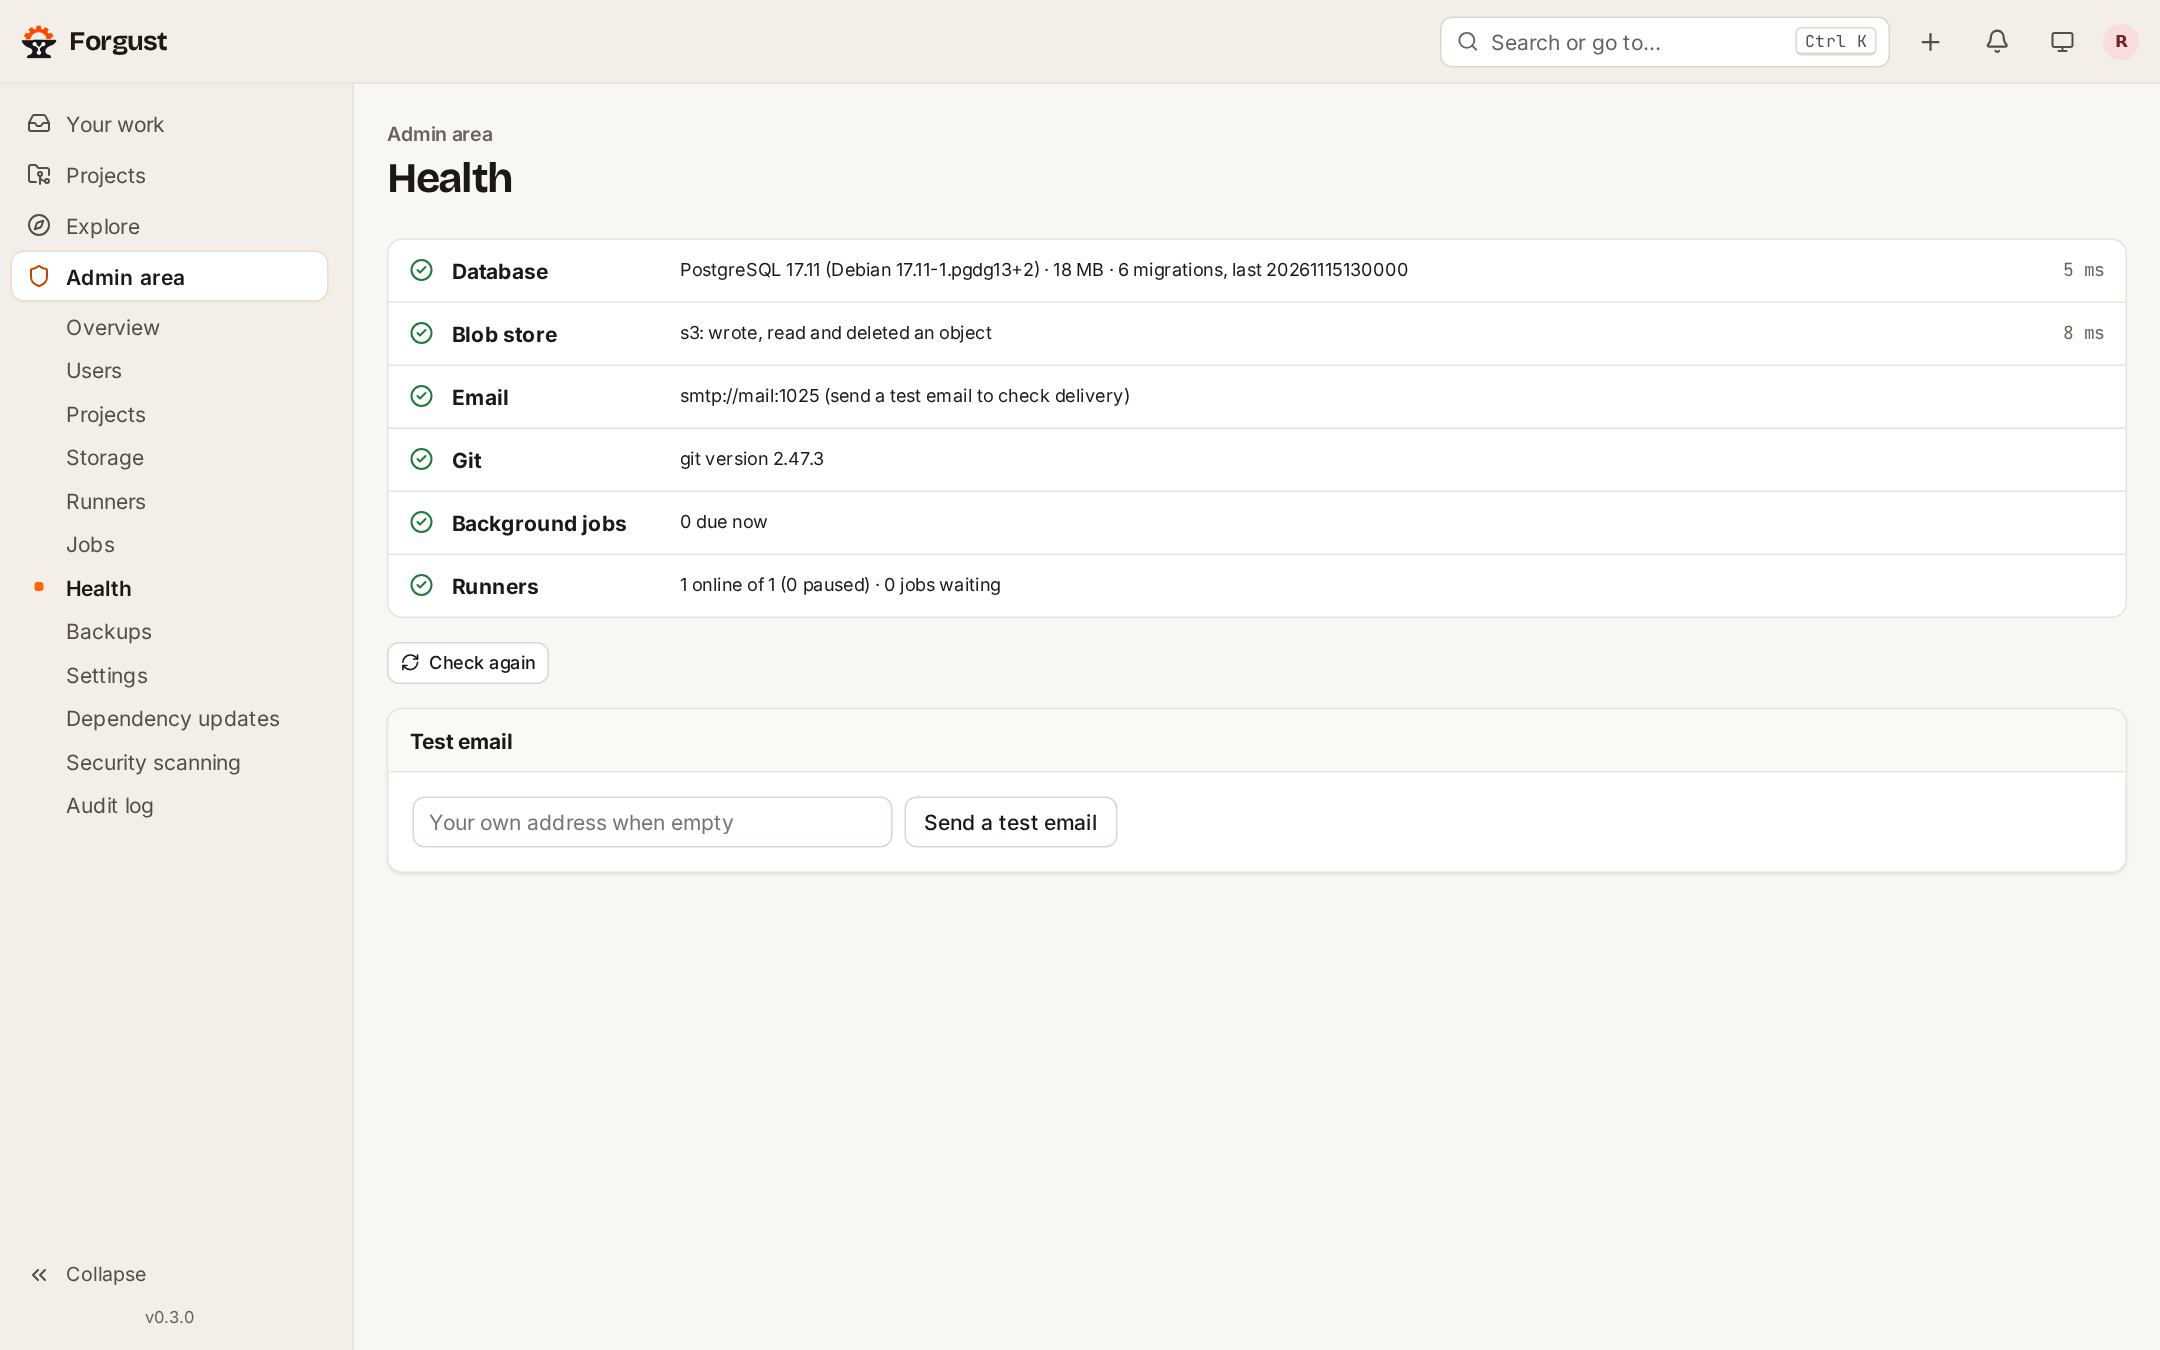
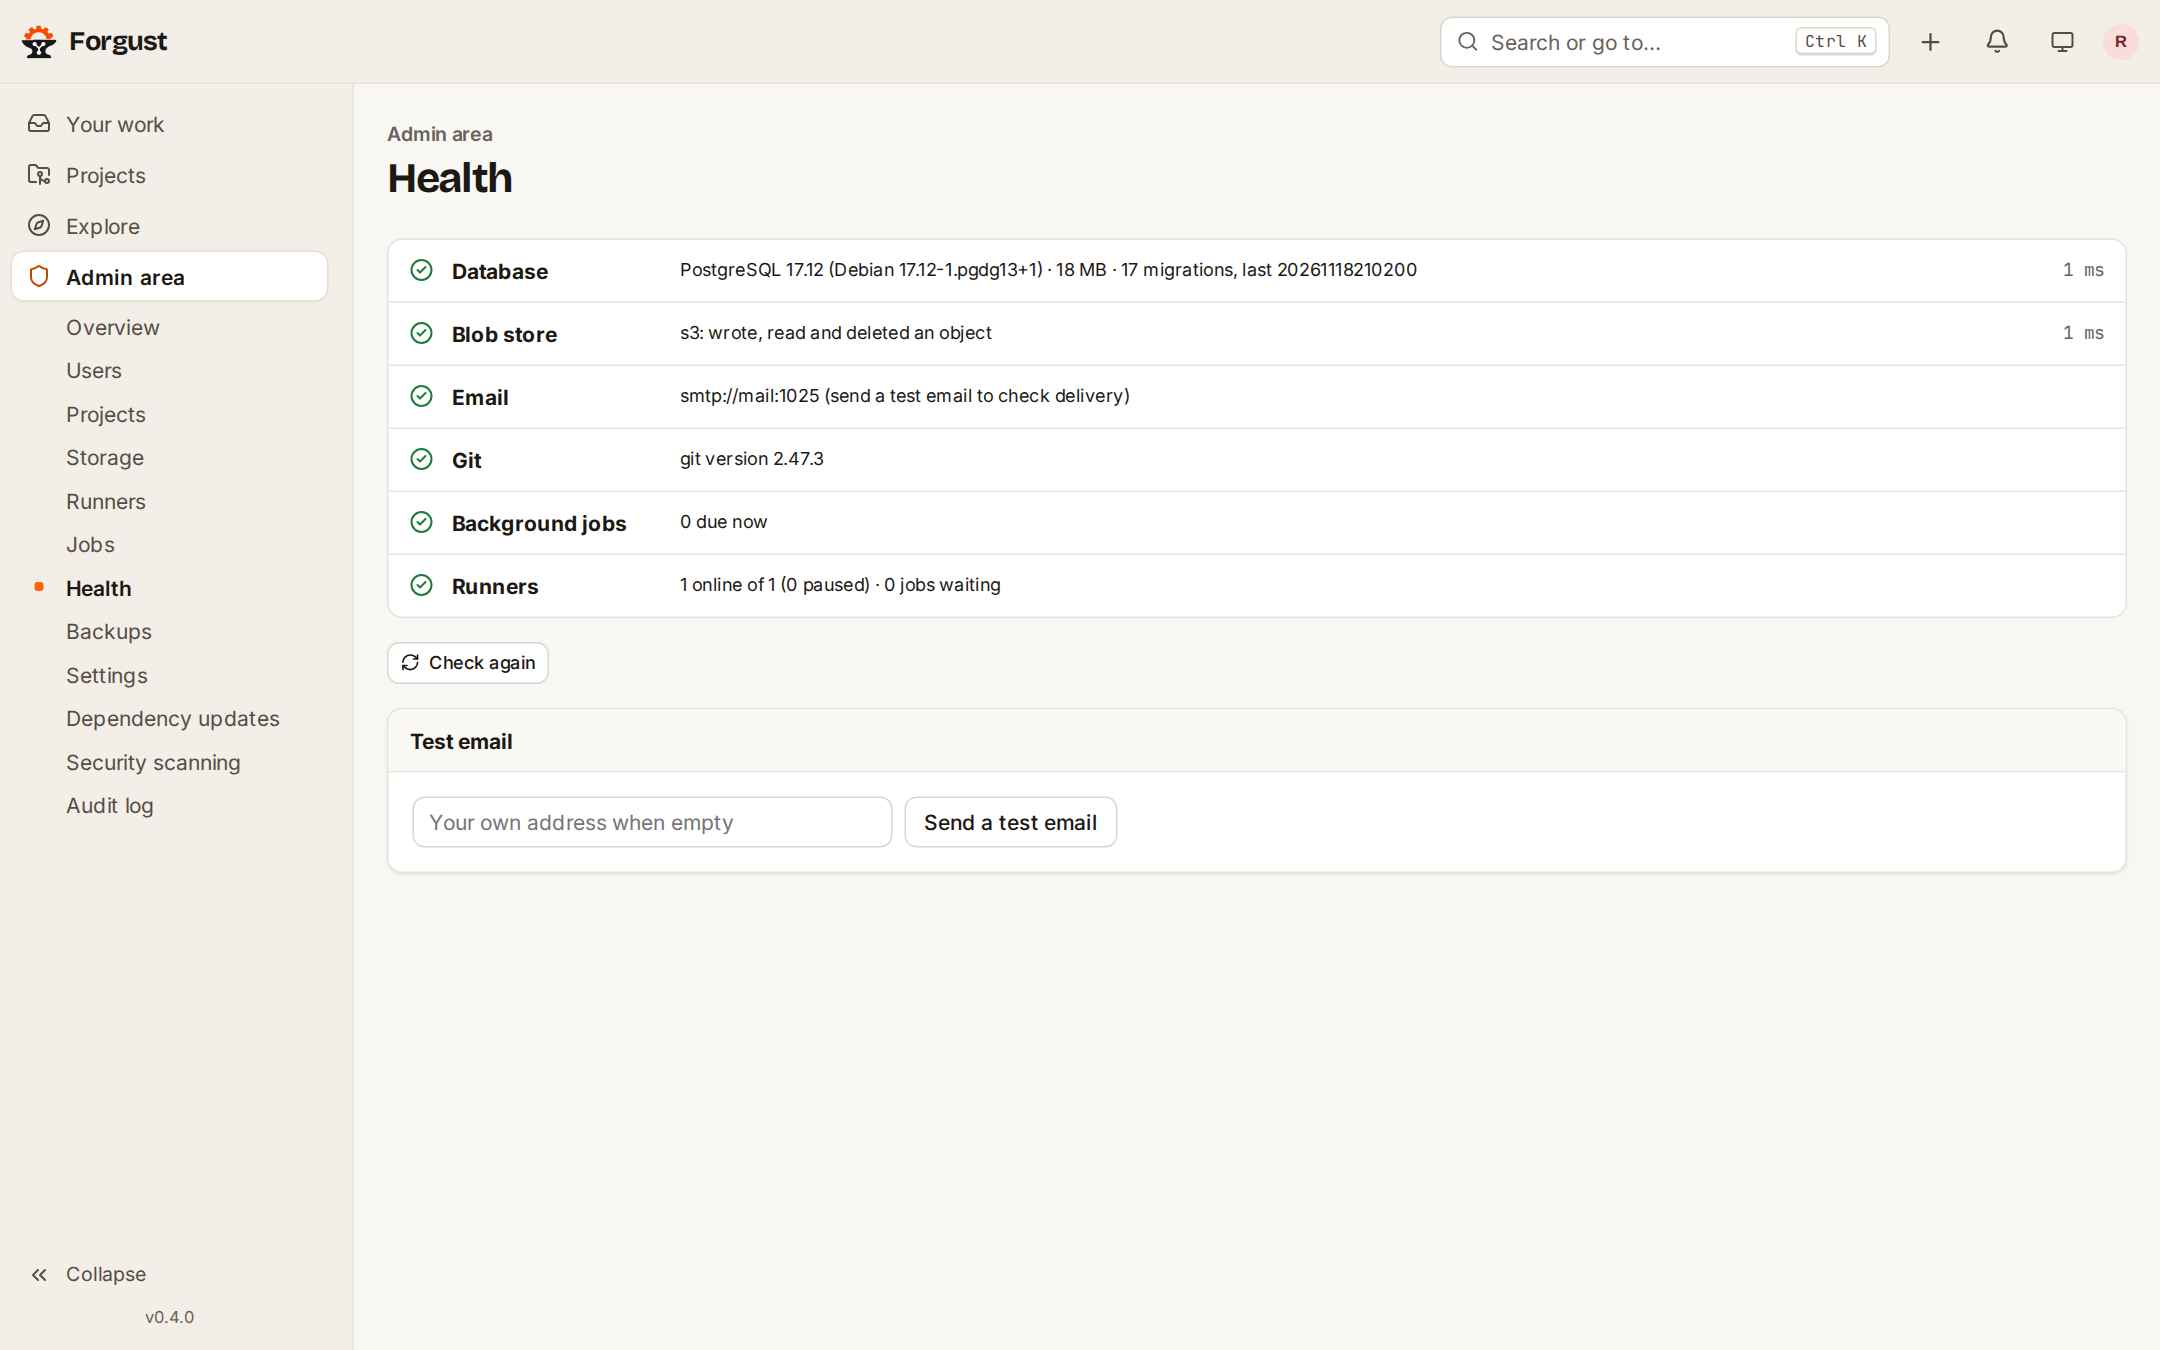
docs: refresh the readme, its screenshots and the social preview

diff --git a/README.md b/README.md
@@ -18,31 +18,55 @@ workflow on your own servers.
 ## Screenshots
 <table>
   <tr>
-    <td align="center"><picture><source media="(prefers-color-scheme: dark)" srcset=".github/images/code-dark.png"/><img src=".github/images/code-light.png" alt="Repository"/></picture><br/><sub>Repository</sub></td>
-    <td align="center"><picture><source media="(prefers-color-scheme: dark)" srcset=".github/images/file-dark.png"/><img src=".github/images/file-light.png" alt="Source file"/></picture><br/><sub>Source file</sub></td>
-    <td align="center"><picture><source media="(prefers-color-scheme: dark)" srcset=".github/images/merge-request-dark.png"/><img src=".github/images/merge-request-light.png" alt="Merge request"/></picture><br/><sub>Merge request</sub></td>
+    <td align="center"><a href=".github/images/code-dark.png"><picture><source media="(prefers-color-scheme: dark)" srcset=".github/images/code-dark.png"/><img src=".github/images/code-light.png" alt="Repository"/></picture></a><br/><sub>Repository</sub></td>
+    <td align="center"><a href=".github/images/merge-request-dark.png"><picture><source media="(prefers-color-scheme: dark)" srcset=".github/images/merge-request-dark.png"/><img src=".github/images/merge-request-light.png" alt="Merge request"/></picture></a><br/><sub>Merge request</sub></td>
+    <td align="center"><a href=".github/images/diff-dark.png"><picture><source media="(prefers-color-scheme: dark)" srcset=".github/images/diff-dark.png"/><img src=".github/images/diff-light.png" alt="Code review"/></picture></a><br/><sub>Code review</sub></td>
   </tr>
   <tr>
-    <td align="center"><picture><source media="(prefers-color-scheme: dark)" srcset=".github/images/diff-dark.png"/><img src=".github/images/diff-light.png" alt="Code review"/></picture><br/><sub>Code review</sub></td>
-    <td align="center"><picture><source media="(prefers-color-scheme: dark)" srcset=".github/images/pipeline-dark.png"/><img src=".github/images/pipeline-light.png" alt="Pipeline"/></picture><br/><sub>Pipeline</sub></td>
-    <td align="center"><picture><source media="(prefers-color-scheme: dark)" srcset=".github/images/job-dark.png"/><img src=".github/images/job-light.png" alt="Job log"/></picture><br/><sub>Job log</sub></td>
-  </tr>
-  <tr>
-    <td align="center"><picture><source media="(prefers-color-scheme: dark)" srcset=".github/images/issues-dark.png"/><img src=".github/images/issues-light.png" alt="Issues"/></picture><br/><sub>Issues</sub></td>
-    <td align="center"><picture><source media="(prefers-color-scheme: dark)" srcset=".github/images/security-dark.png"/><img src=".github/images/security-light.png" alt="Security findings"/></picture><br/><sub>Security findings</sub></td>
+    <td align="center"><a href=".github/images/pipeline-dark.png"><picture><source media="(prefers-color-scheme: dark)" srcset=".github/images/pipeline-dark.png"/><img src=".github/images/pipeline-light.png" alt="Pipeline"/></picture></a><br/><sub>Pipeline</sub></td>
+    <td align="center"><a href=".github/images/login-dark.png"><picture><source media="(prefers-color-scheme: dark)" srcset=".github/images/login-dark.png"/><img src=".github/images/login-light.png" alt="Sign in"/></picture></a><br/><sub>Sign in</sub></td>
+    <td align="center"><a href=".github/images/security-dark.png"><picture><source media="(prefers-color-scheme: dark)" srcset=".github/images/security-dark.png"/><img src=".github/images/security-light.png" alt="Security findings"/></picture></a><br/><sub>Security findings</sub></td>
   </tr>
 </table>
 
-### Admin
+<details>
+<summary>More screenshots</summary>
+
 <table>
   <tr>
-    <td align="center"><picture><source media="(prefers-color-scheme: dark)" srcset=".github/images/admin-dark.png"/><img src=".github/images/admin-light.png" alt="Overview"/></picture><br/><sub>Overview</sub></td>
-    <td align="center"><picture><source media="(prefers-color-scheme: dark)" srcset=".github/images/admin-storage-dark.png"/><img src=".github/images/admin-storage-light.png" alt="Storage"/></picture><br/><sub>Storage</sub></td>
-    <td align="center"><picture><source media="(prefers-color-scheme: dark)" srcset=".github/images/admin-health-dark.png"/><img src=".github/images/admin-health-light.png" alt="Health"/></picture><br/><sub>Health</sub></td>
+    <td align="center"><a href=".github/images/job-dark.png"><picture><source media="(prefers-color-scheme: dark)" srcset=".github/images/job-dark.png"/><img src=".github/images/job-light.png" alt="Job log"/></picture></a><br/><sub>Job log</sub></td>
+    <td align="center"><a href=".github/images/dashboard-dark.png"><picture><source media="(prefers-color-scheme: dark)" srcset=".github/images/dashboard-dark.png"/><img src=".github/images/dashboard-light.png" alt="Your work"/></picture></a><br/><sub>Your work</sub></td>
+    <td align="center"><a href=".github/images/file-dark.png"><picture><source media="(prefers-color-scheme: dark)" srcset=".github/images/file-dark.png"/><img src=".github/images/file-light.png" alt="Source file"/></picture></a><br/><sub>Source file</sub></td>
+  </tr>
+  <tr>
+    <td align="center"><a href=".github/images/commits-dark.png"><picture><source media="(prefers-color-scheme: dark)" srcset=".github/images/commits-dark.png"/><img src=".github/images/commits-light.png" alt="Commits"/></picture></a><br/><sub>Commits</sub></td>
+    <td align="center"><a href=".github/images/merge-requests-dark.png"><picture><source media="(prefers-color-scheme: dark)" srcset=".github/images/merge-requests-dark.png"/><img src=".github/images/merge-requests-light.png" alt="Merge requests"/></picture></a><br/><sub>Merge requests</sub></td>
+    <td align="center"><a href=".github/images/issues-dark.png"><picture><source media="(prefers-color-scheme: dark)" srcset=".github/images/issues-dark.png"/><img src=".github/images/issues-light.png" alt="Issues"/></picture></a><br/><sub>Issues</sub></td>
+  </tr>
+  <tr>
+    <td align="center"><a href=".github/images/environments-dark.png"><picture><source media="(prefers-color-scheme: dark)" srcset=".github/images/environments-dark.png"/><img src=".github/images/environments-light.png" alt="Environments"/></picture></a><br/><sub>Environments</sub></td>
+    <td align="center"><a href=".github/images/releases-dark.png"><picture><source media="(prefers-color-scheme: dark)" srcset=".github/images/releases-dark.png"/><img src=".github/images/releases-light.png" alt="Releases"/></picture></a><br/><sub>Releases</sub></td>
+    <td align="center"><a href=".github/images/registry-dark.png"><picture><source media="(prefers-color-scheme: dark)" srcset=".github/images/registry-dark.png"/><img src=".github/images/registry-light.png" alt="Container registry"/></picture></a><br/><sub>Container registry</sub></td>
+  </tr>
+  <tr>
+    <td align="center"><a href=".github/images/group-dark.png"><picture><source media="(prefers-color-scheme: dark)" srcset=".github/images/group-dark.png"/><img src=".github/images/group-light.png" alt="Group"/></picture></a><br/><sub>Group</sub></td>
+    <td align="center"><a href=".github/images/user-dark.png"><picture><source media="(prefers-color-scheme: dark)" srcset=".github/images/user-dark.png"/><img src=".github/images/user-light.png" alt="User profile"/></picture></a><br/><sub>User profile</sub></td>
+    <td align="center"><a href=".github/images/settings-dark.png"><picture><source media="(prefers-color-scheme: dark)" srcset=".github/images/settings-dark.png"/><img src=".github/images/settings-light.png" alt="Project settings"/></picture></a><br/><sub>Project settings</sub></td>
+  </tr>
+  <tr>
+    <td align="center"><a href=".github/images/profile-security-dark.png"><picture><source media="(prefers-color-scheme: dark)" srcset=".github/images/profile-security-dark.png"/><img src=".github/images/profile-security-light.png" alt="Password, 2FA and passkeys"/></picture></a><br/><sub>Password, 2FA and passkeys</sub></td>
+    <td align="center"><a href=".github/images/admin-dark.png"><picture><source media="(prefers-color-scheme: dark)" srcset=".github/images/admin-dark.png"/><img src=".github/images/admin-light.png" alt="Admin overview"/></picture></a><br/><sub>Admin overview</sub></td>
+    <td align="center"><a href=".github/images/admin-users-dark.png"><picture><source media="(prefers-color-scheme: dark)" srcset=".github/images/admin-users-dark.png"/><img src=".github/images/admin-users-light.png" alt="Admin users"/></picture></a><br/><sub>Admin users</sub></td>
+  </tr>
+  <tr>
+    <td align="center"><a href=".github/images/admin-runners-dark.png"><picture><source media="(prefers-color-scheme: dark)" srcset=".github/images/admin-runners-dark.png"/><img src=".github/images/admin-runners-light.png" alt="Admin runners"/></picture></a><br/><sub>Admin runners</sub></td>
+    <td align="center"><a href=".github/images/admin-storage-dark.png"><picture><source media="(prefers-color-scheme: dark)" srcset=".github/images/admin-storage-dark.png"/><img src=".github/images/admin-storage-light.png" alt="Admin storage"/></picture></a><br/><sub>Admin storage</sub></td>
+    <td align="center"><a href=".github/images/admin-health-dark.png"><picture><source media="(prefers-color-scheme: dark)" srcset=".github/images/admin-health-dark.png"/><img src=".github/images/admin-health-light.png" alt="Admin health"/></picture></a><br/><sub>Admin health</sub></td>
   </tr>
 </table>
+</details>
 
-## Quick Start
+## Quick start
 
 ```bash
 git clone https://github.com/forgust-dev/forgust && cd forgust
@@ -68,7 +92,7 @@ Run the published image (amd64 and arm64) next to Postgres, or build your own wi
 ```yaml
 services:
   forgust:
-    image: ghcr.io/forgust-dev/forgust:0.1
+    image: ghcr.io/forgust-dev/forgust:0.4
     restart: unless-stopped
     read_only: true
     tmpfs: [/tmp]
@@ -112,7 +136,7 @@ volumes: { forgust-data: {}, db-data: {} }
 - Fast code browsing: tree, blame, history, compare, syntax highlighting
 - Code search across projects: exact text or regular expressions, filters by path,
   file name and language, only in code you can read
-- Markdown with diagrams (Mermaid), math and alerts
+- Markdown with diagrams (Mermaid), math, alerts and emoji shortcodes
 - Edit files, create branches and tags from the browser
 - Protected branches and tags, push rules, signed-commit verification (GPG and SSH)
 - Releases with notes and attached files
@@ -134,7 +158,9 @@ volumes: { forgust-data: {}, db-data: {} }
 - Confidential issues (only Reporters and up, the author and the assignees see them)
   and internal comments on issues and merge requests (only Reporters and up)
 - Mentions, `#12` and `!45` references, to-dos and a "Your work" inbox
-- Emoji reactions, watching projects, per-project notification levels, an inbox in the app (live), and a switch per kind of notification for the app and for email
+- Emoji reactions, watching projects, per-project notification levels
+- A live notification inbox in the app, with a switch per kind of notification for
+  the app and for email
 
 ### ⚙ CI/CD
 - Pipelines with stages and `needs` graphs, live logs, artifacts, JUnit test reports
@@ -156,7 +182,9 @@ volumes: { forgust-data: {}, db-data: {} }
 - Overview with activity and CI statistics
 - Users: block, reset two-factor, impersonate (audited)
 - Storage by kind and by project, quotas per group and project
-- Background jobs, health checks, backups from the UI, an instance banner, a notice to administrators when a new release is out (can be turned off)
+- Runners, background jobs, health checks and backups from the UI
+- An instance banner, and a notice to administrators when a new release is out (can
+  be turned off)
 
 ### 🔌 Integrations
 - Import from GitLab and GitHub: repositories, merge requests, issues (confidential
@@ -185,32 +213,22 @@ against 300 ms).
 
 ## Status
 
-Forgust is young (0.1) and built for private teams first. Not there yet: forks and
+Forgust is young (0.4) and built for private teams first. Not there yet: forks and
 merge requests from forks, wikis, snippets, package registries, push and pull
-mirroring, issue boards, system hooks, and SAML or LDAP sign-in. Code search covers each project's default branch, not other branches
-or tags.
+mirroring, issue boards, system hooks, and SAML or LDAP sign-in.
+Code search covers each project's default branch, not other branches or tags.
 
-## Tech Stack
+## Tech stack
 | Layer | Technology |
 |---|---|
 | Backend | Rust + axum + tokio + sqlx |
 | Git | git (writes and transfer) + gitoxide (hot reads), russh for SSH |
-| Frontend | React 18 + TypeScript + Vite + TanStack Query |
+| Frontend | React 19 + TypeScript + Vite + TanStack Query |
 | Database | PostgreSQL 17+ |
 | Job queue | graphile_worker (on PostgreSQL) |
 | Storage | Local disk or S3-compatible object storage |
 
 ## Development
-```bash
-docker compose -f compose.dev.yml up -d      # Postgres :5440, S3 :9010, SMTP :1026 (inbox on :8026)
-echo DATABASE_URL=postgres://forgust:forgust@localhost:5440/forgust > .env
-cp forgust.example.toml forgust.toml         # set database.url
-(cd web && npm ci && npm run build)          # or `npm run dev` with FORGUST_URL set
-cargo run -p forgust-server -- serve         # migrates on start
-cargo test --workspace                       # one throwaway database per test
-(cd web && npm run e2e)                      # end-to-end tests (Playwright)
-```
-
 Contributions are welcome: see [CONTRIBUTING.md](CONTRIBUTING.md) (commits are signed
 off under the DCO). Report security problems privately, as [SECURITY.md](SECURITY.md)
 explains.
